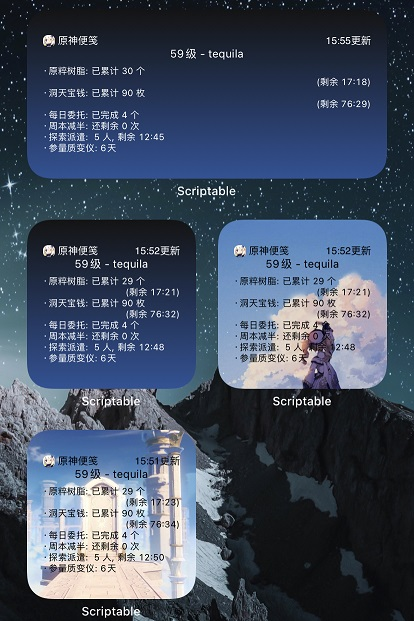
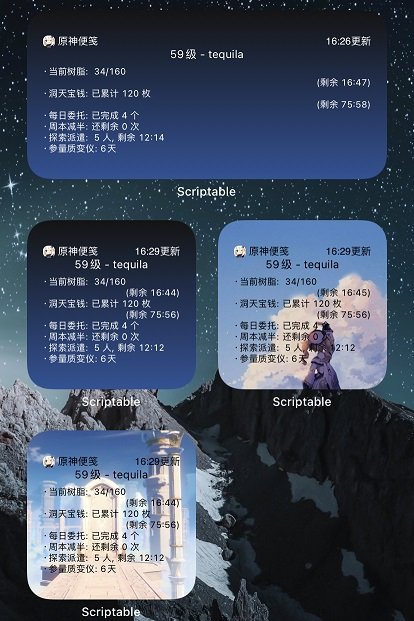
docs: 树脂文字优化

diff --git a/scriptable_note_barbara.js b/scriptable_note_barbara.js
@@ -353,11 +353,11 @@ widget.backgroundImage = background
 
   // 添加 树脂信息
   var stackText = widget.addStack()
-  var textItem = stackText.addText("·原粹树脂: ")
+  var textItem = stackText.addText("·当前树脂: ")
   textItem.font = getFont('regular', 9)
   textItem.textColor = textColor
 
-  var textItem = stackText.addText(`已累计 ${genshinData["current_resin"]} 个`)
+  var textItem = stackText.addText(` ${genshinData["current_resin"]}/${genshinData["max_resin"]}`)
   textItem.font = getFont('regular', 9)
   if (genshinData["current_resin"] >= genshinData["max_resin"]*0.9) {
     textItem.textColor = Color.red()

diff --git a/scriptable_note_yuanshenDoor.js b/scriptable_note_yuanshenDoor.js
@@ -353,11 +353,11 @@ widget.backgroundImage = background
 
   // 添加 树脂信息
   var stackText = widget.addStack()
-  var textItem = stackText.addText("·原粹树脂: ")
+  var textItem = stackText.addText("·当前树脂: ")
   textItem.font = getFont('regular', 9)
   textItem.textColor = textColor
 
-  var textItem = stackText.addText(`已累计 ${genshinData["current_resin"]} 个`)
+  var textItem = stackText.addText(` ${genshinData["current_resin"]}/${genshinData["max_resin"]}`)
   textItem.font = getFont('regular', 9)
   if (genshinData["current_resin"] >= genshinData["max_resin"]*0.9) {
     textItem.textColor = Color.red()

diff --git a/scriptable_note.js b/scriptable_note.js
@@ -353,11 +353,11 @@ async function createWidget() {
 
   // 添加 树脂信息
   var stackText = widget.addStack()
-  var textItem = stackText.addText("·原粹树脂: ")
+  var textItem = stackText.addText("·当前树脂: ")
   textItem.font = getFont('regular', 9)
   textItem.textColor = widgetColor
 
-  var textItem = stackText.addText(`已累计 ${genshinData["current_resin"]} 个`)
+  var textItem = stackText.addText(` ${genshinData["current_resin"]}/${genshinData["max_resin"]}`)
   textItem.font = getFont('regular', 9)
   if (genshinData["current_resin"] >= genshinData["max_resin"]*0.9) {
     textItem.textColor = Color.red()

diff --git a/scriptable_note_medium.js b/scriptable_note_medium.js
@@ -353,11 +353,11 @@ async function createWidget() {
 
   // 添加 树脂信息
   var stackText = widget.addStack()
-  var textItem = stackText.addText("·原粹树脂: ")
+  var textItem = stackText.addText("·当前树脂: ")
   textItem.font = getFont('regular', 9)
   textItem.textColor = widgetColor
 
-  var textItem = stackText.addText(`已累计 ${genshinData["current_resin"]} 个`)
+  var textItem = stackText.addText(` ${genshinData["current_resin"]}/${genshinData["max_resin"]}`)
   textItem.font = getFont('regular', 9)
   if (genshinData["current_resin"] >= genshinData["max_resin"]*0.9) {
     textItem.textColor = Color.red()
